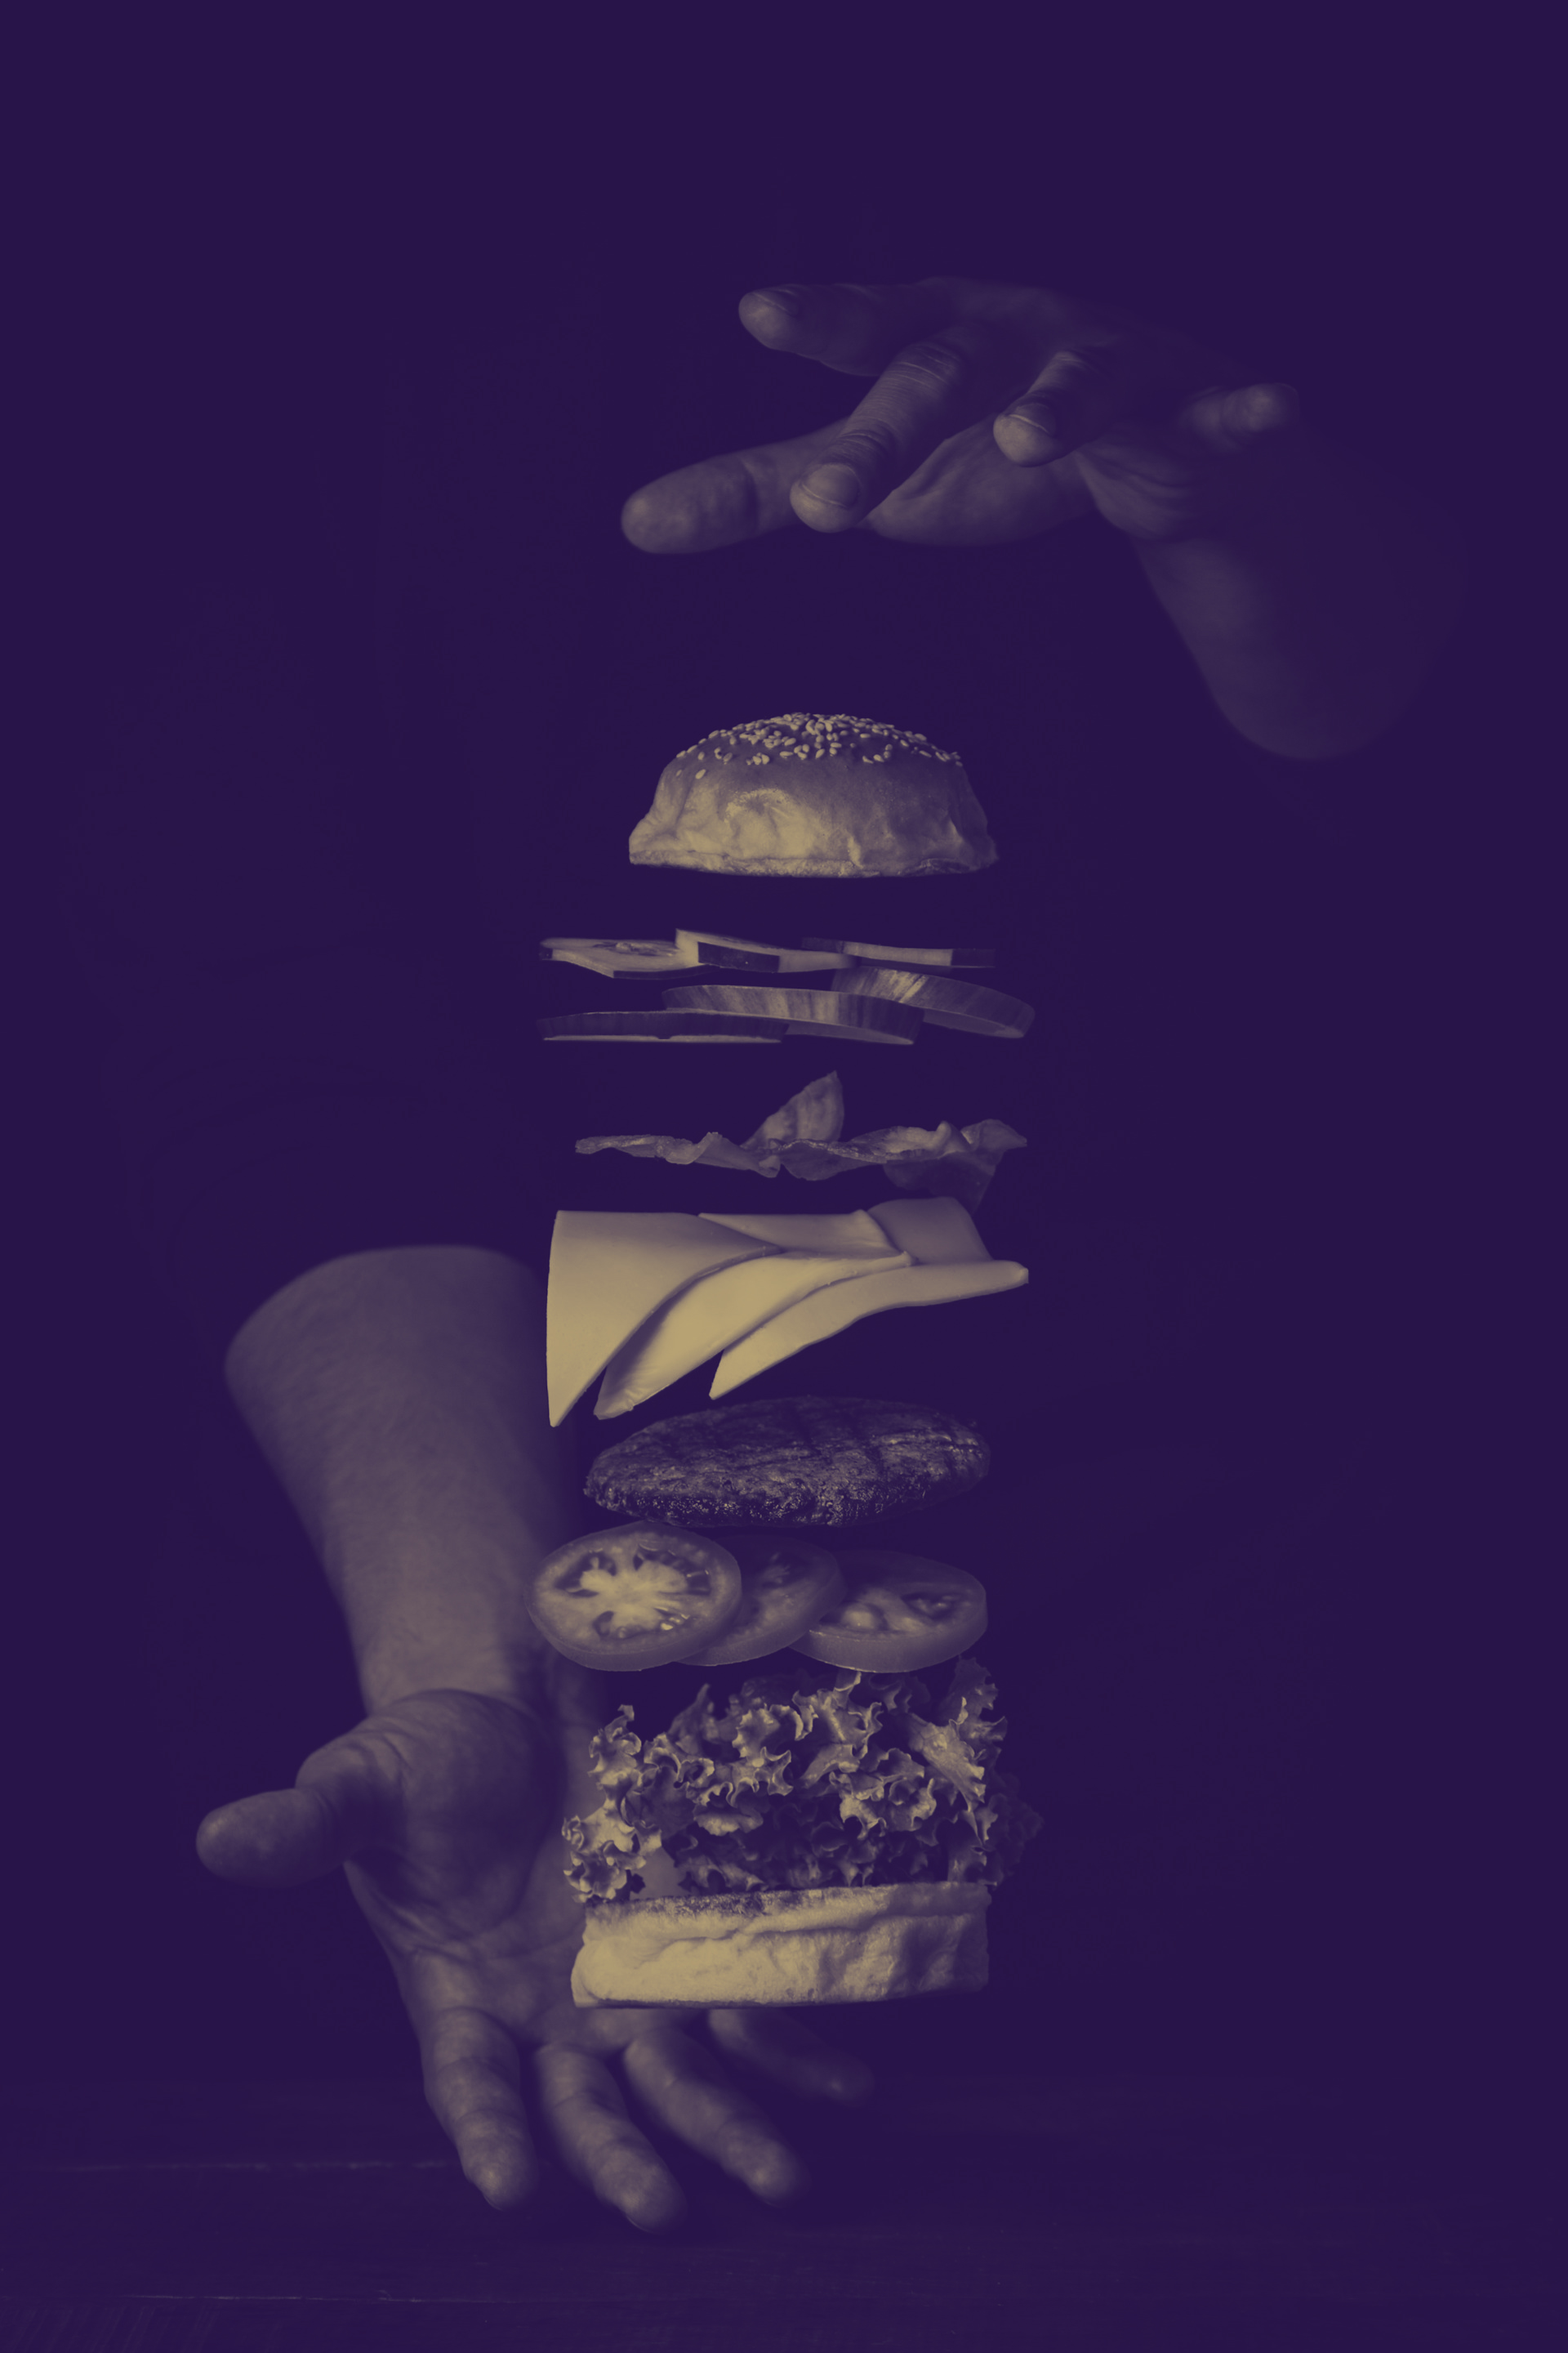
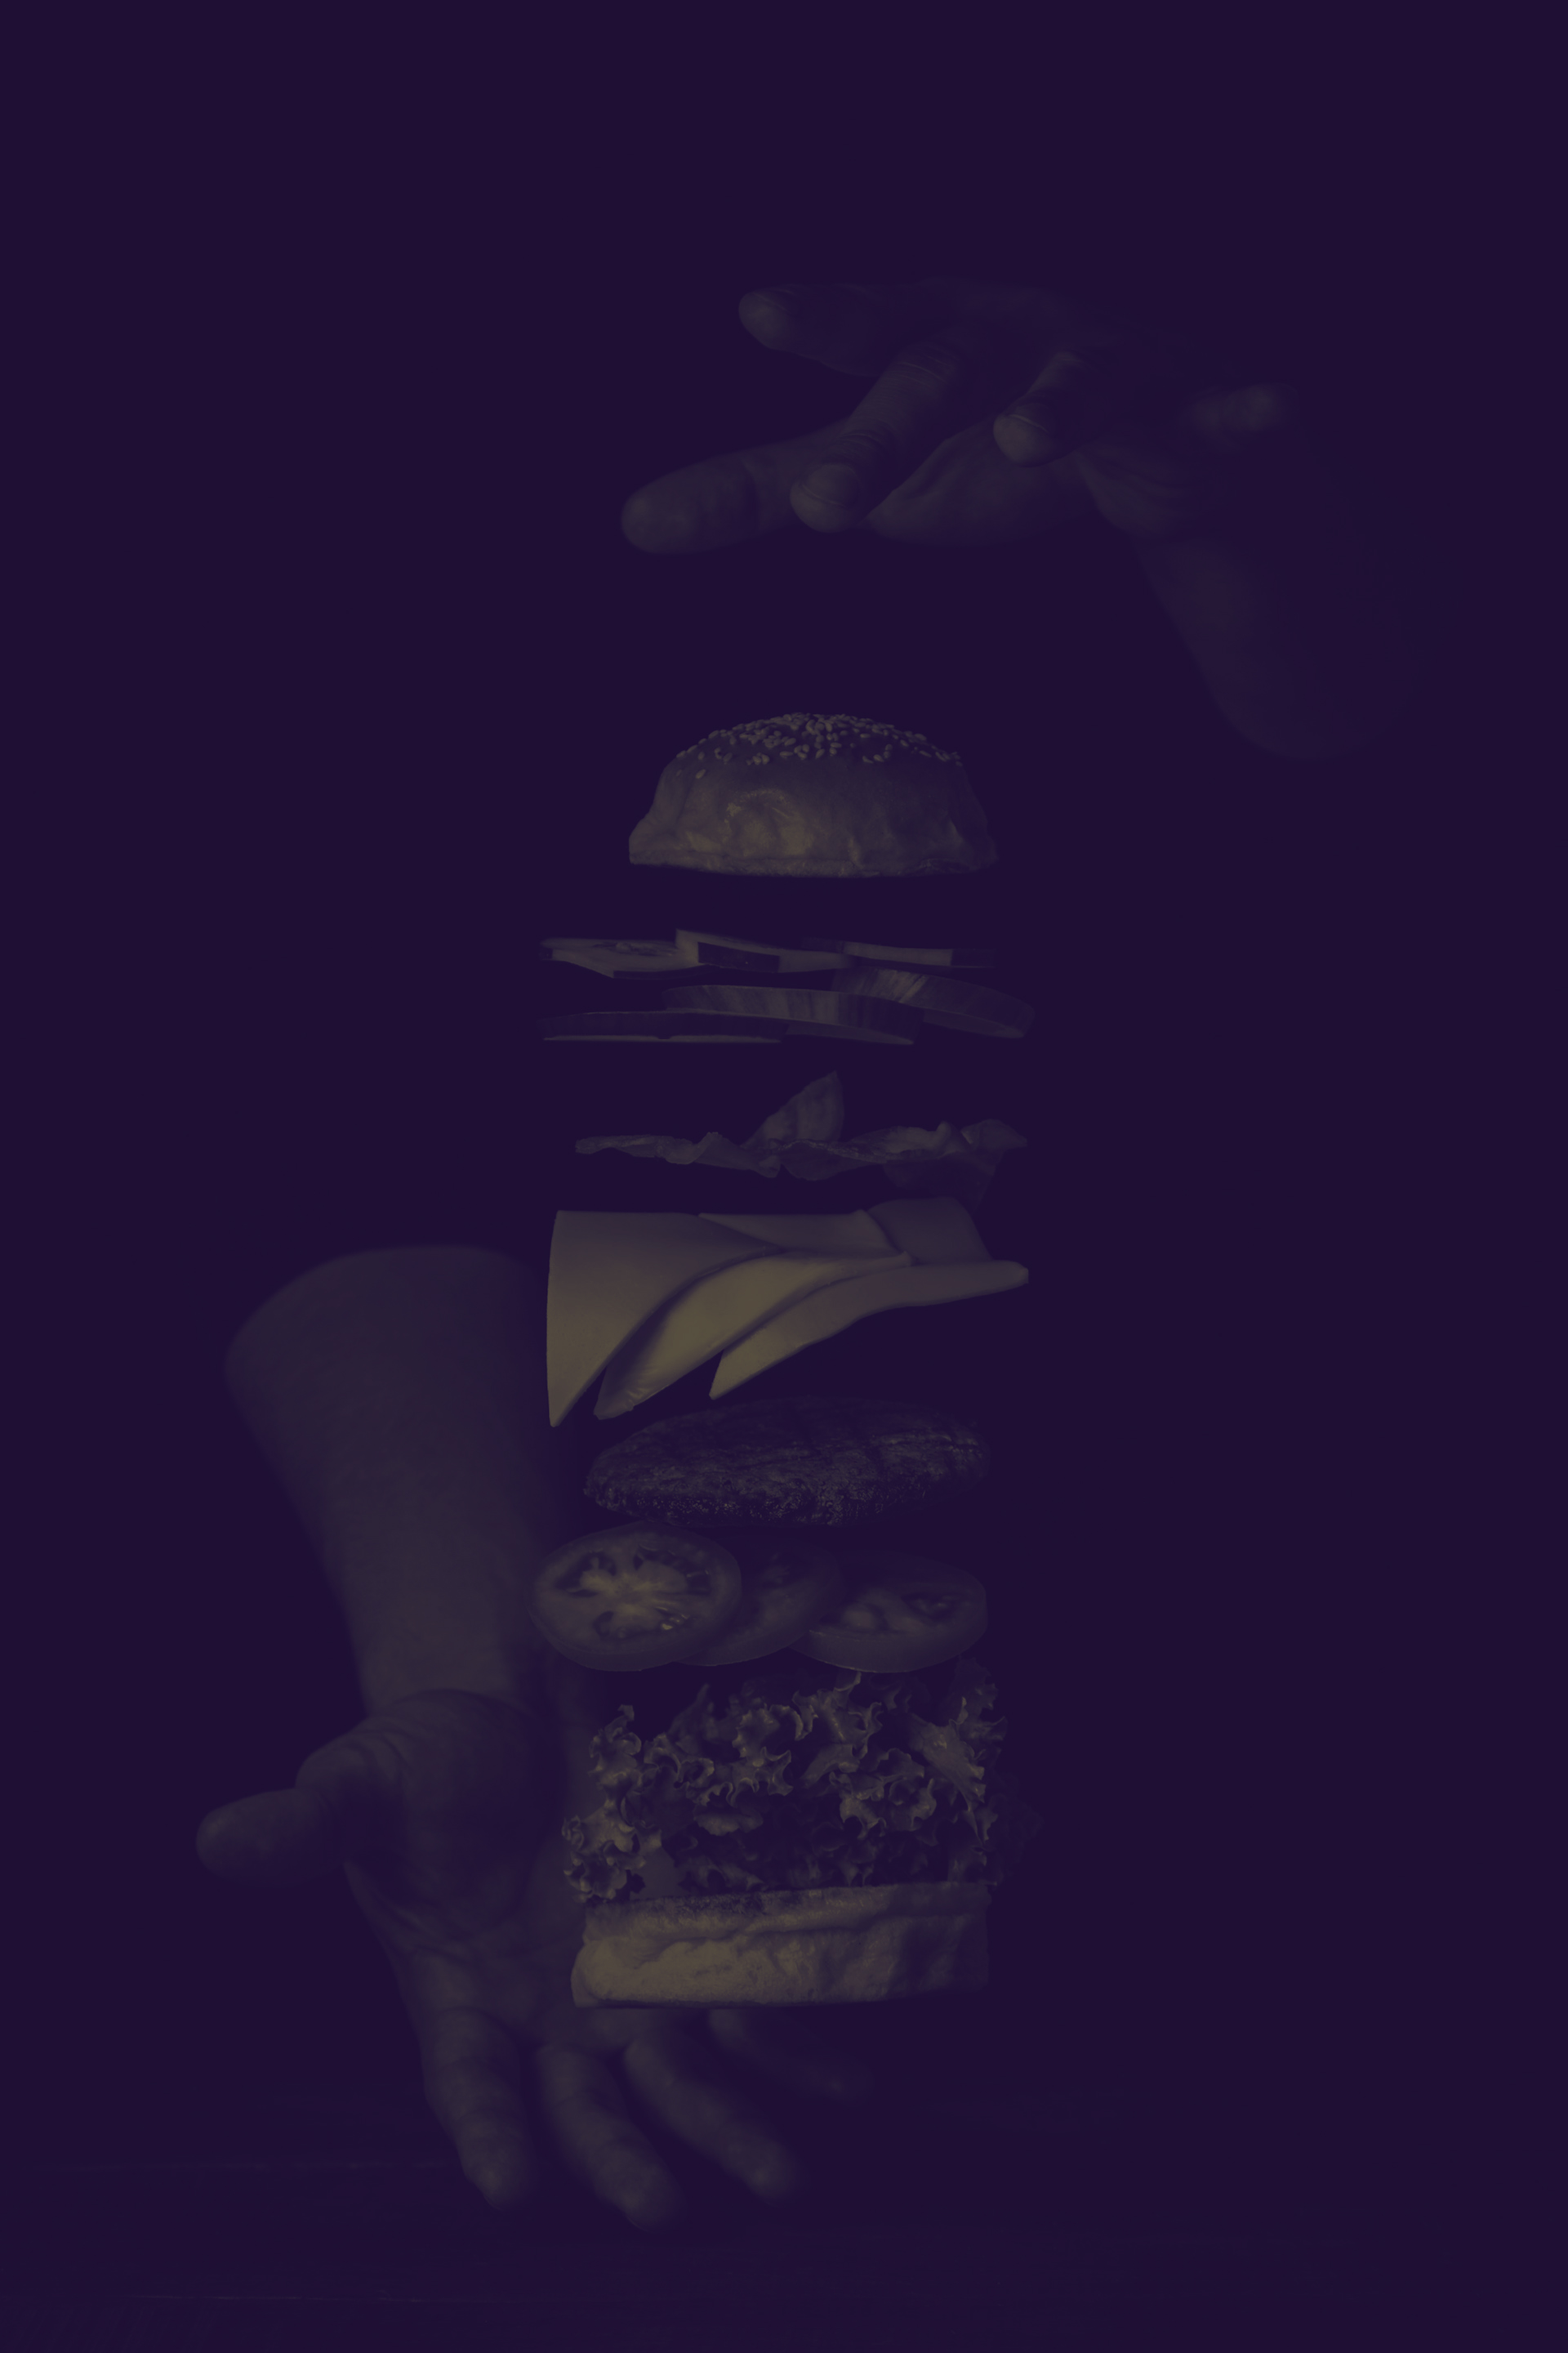
updated stuff

diff --git a/restaurant/css/style.css b/restaurant/css/style.css
@@ -64,8 +64,10 @@ body {
 #navbut:hover {
     background-color: #301953;
 }
+
 .navbarspacer {
     height: 100px;
+    background-color: #301953;
 }
 
 /****** body ******/
@@ -76,7 +78,7 @@ body {
 }
 
 #hhero {
-    background-image: url(../images/magichero2.jpg);
+    background-image: url(../images/magichero.jpg);
 }
 
 #mhero {
@@ -93,6 +95,7 @@ body {
     justify-content: center;
     align-items: center;
     height: 60vh;
+    width: 100%;
 }
 
 .hero h1 {
@@ -101,6 +104,7 @@ body {
     width: 70%;
     max-width: 600px;
     font-family: "battleslab", sans-serif;
+    margin-bottom: 0px;
 }
 
 #mhero h1 {
@@ -108,12 +112,18 @@ body {
 }
 
 .hero p {
-    font-size: 18px;
+    font-size: 24px;
     text-align: center;
     width: 70%;
     max-width: 550px;
     font-family: "Open Sans", sans-serif;
     margin-top: 110px;
+    font-weight: 600;
+    margin-top: 36px;
+}
+
+#mhero p {
+    max-width: 100%;
 }
 
 .divb4card {
@@ -132,7 +142,7 @@ body {
 }
 
 #mh1 {
-    color: #425DCE;
+    color: #4A277F;
 }
 
 /****** card styling ******/
@@ -149,15 +159,14 @@ body {
 
 .card {
     max-width: 348px;
+    min-width: 300px;
     height: 400px;
     padding: 24px;
-    border: 4px solid #4A277F;
+    /* border: 4px solid #4A277F; */
     border-radius: 24px;
-    background-color: white;
+    background-color: #fef0cd;
     
-    transition: 
-        transform 0.25s,
-        box-shadow 0.25s
+    transition: all 0.25s
     ;
 }
 
@@ -193,18 +202,31 @@ div.bigcard {
     display: flex;
     flex-direction: column;
     justify-content: space-between;
+    background-color: transparent;
+    border: 4px solid #C9720C;
 }
 
-.bigcard img {
+div.bigcard img {
     height: 300px;
 }
 
-.bigcard h3 {
+div.bigcard h3 {
     font-size: 36px;
+    color: #C9720C;
 }
 
-.bigcard p {
+div.bigcard p {
     font-size: 20px;
+    color: #C9720C;
+    width: 80%;
+    margin-left: auto;
+    margin-right: auto;
+}
+
+.hcard {
+    max-width: 300px;
+    min-width: 272px;
+    background-color: #EBE2F7;
 }
 
 .mcard {
@@ -219,7 +241,7 @@ div.bigcard {
 
 .mcard h3 {
     border-top: 0px;
-    color: #425DCE;
+    color: #4A277F;
 }
 
 .mcard img {
@@ -227,20 +249,30 @@ div.bigcard {
 }
 
 .mcard p {
-    color: #C9720C;
+    color: #4A277F;
     border-bottom: 0px;
 }
 
+div.bigcard, div.bigcard h3, div.bigcard p {
+    transition: all 0.25s;
+}
+
+.bigcard:hover h3, .bigcard:hover p {
+    color: #301953;
+}
 
 .card:hover {
     transform: scale(103%);
     box-shadow: 0px 0px 16px #4a277f79;
+    background-color: white;
 }
 
 .mcard:hover {
     transform: scale(103%);
-    box-shadow: 0px 0px 16px #425DCE79;
+    box-shadow: 0px 0px 16px #4A277F79;
 }
+
+
 
 /****** footer ******/
 
@@ -266,6 +298,10 @@ div.bigcard {
         height: 124px;
     }
 
+    .navbarspacer {
+        height: 124px;
+    }
+
     #navbar #navbut {
         margin: 0px auto;
     }
@@ -283,7 +319,8 @@ div.bigcard {
     }
 
     .hero h1 {
-        font-size: 40px;
+        font-size: 30px;
+        margin-bottom: 24px;
     }
 
     #mhero h1 {
@@ -292,6 +329,7 @@ div.bigcard {
 
     .hero p {
         font-size: 16px;
+        margin-top: 0px;
     }
 
     .hero {

diff --git a/restaurant/index.html b/restaurant/index.html
@@ -27,7 +27,7 @@
             <a href="#" id="navbut">Contact</a>
 
         </div>
-        
+
         <div class="navbarspacer">
 
         </div>
@@ -54,7 +54,7 @@
 
                 <div class="cardiv">
 
-                    <div id="hcard1" class="card">
+                    <div id="hcard1" class="hcard card">
 
                         <h3>Fresh Ingredients, Never 
                             Frozen</h3>
@@ -70,7 +70,7 @@
 
                     </div>
 
-                    <div id="hcard2" class="card">
+                    <div id="hcard2" class="hcard card">
 
                         <h3>Wide Variety of Options</h3>
 
@@ -86,7 +86,7 @@
 
                     </div>
 
-                    <div id="hcard3" class="card">
+                    <div id="hcard3" class="hcard card">
 
                         <h3>Allergy and Vegan Accesiblity</h3>
 
@@ -101,7 +101,7 @@
 
                     </div>
 
-                    <div id="hcard4" class="card">
+                    <div id="hcard4" class="hcard card">
 
                         <h3>An Experience Like No Other</h3>
 
